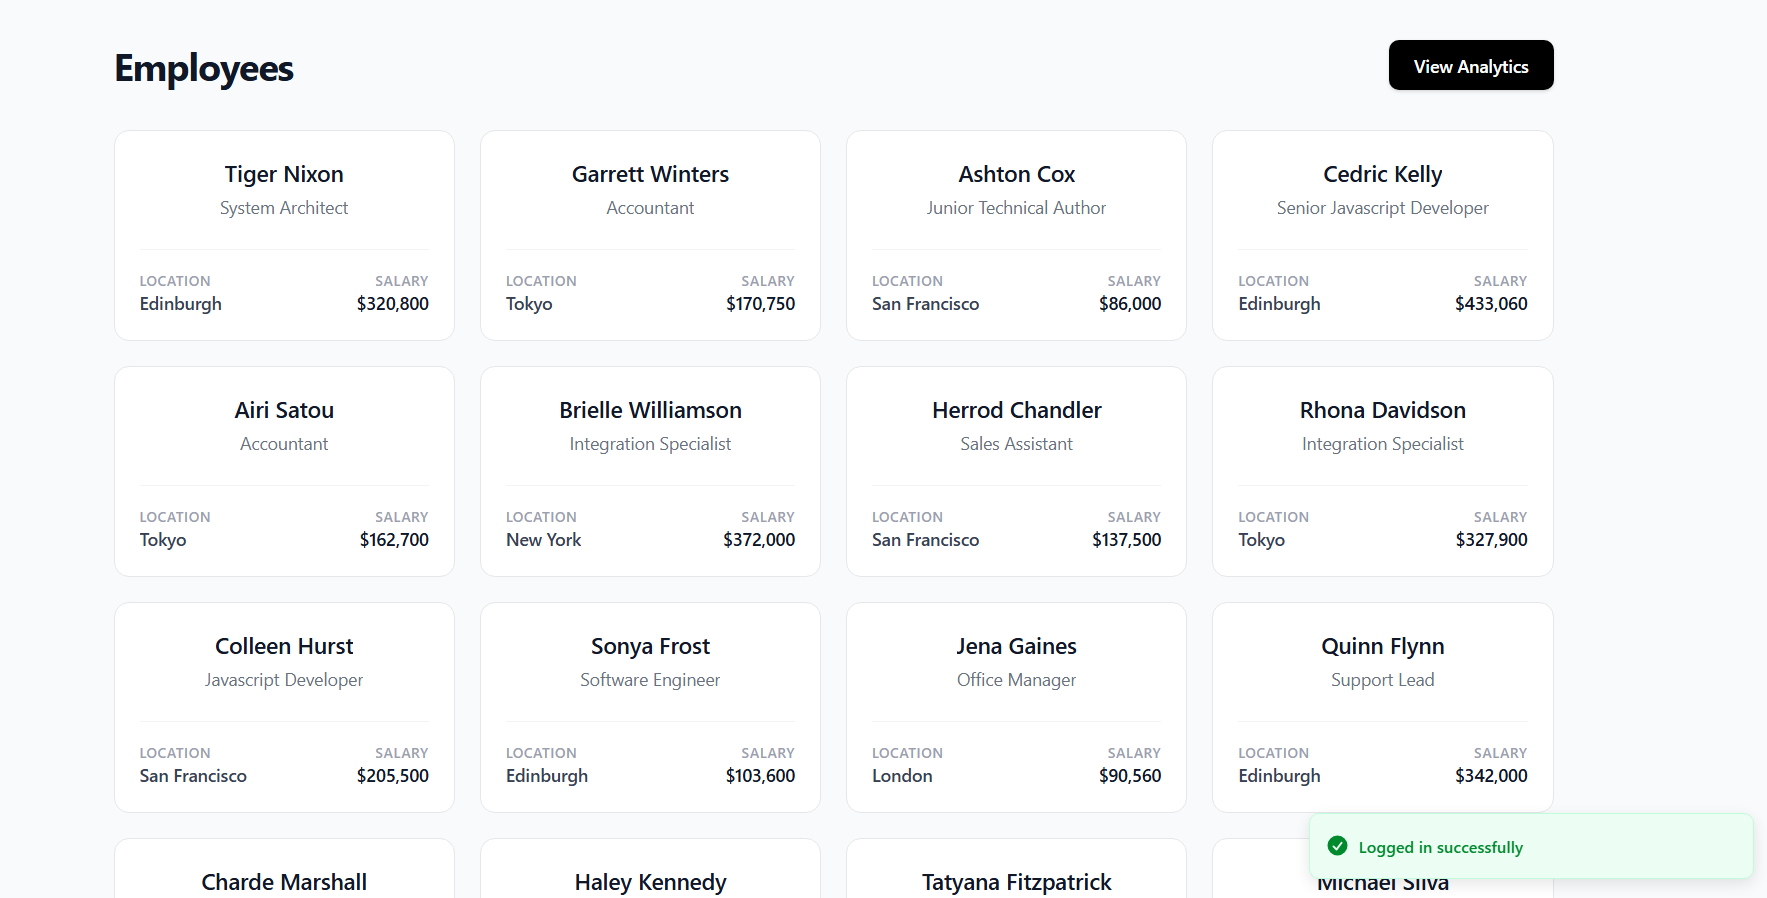
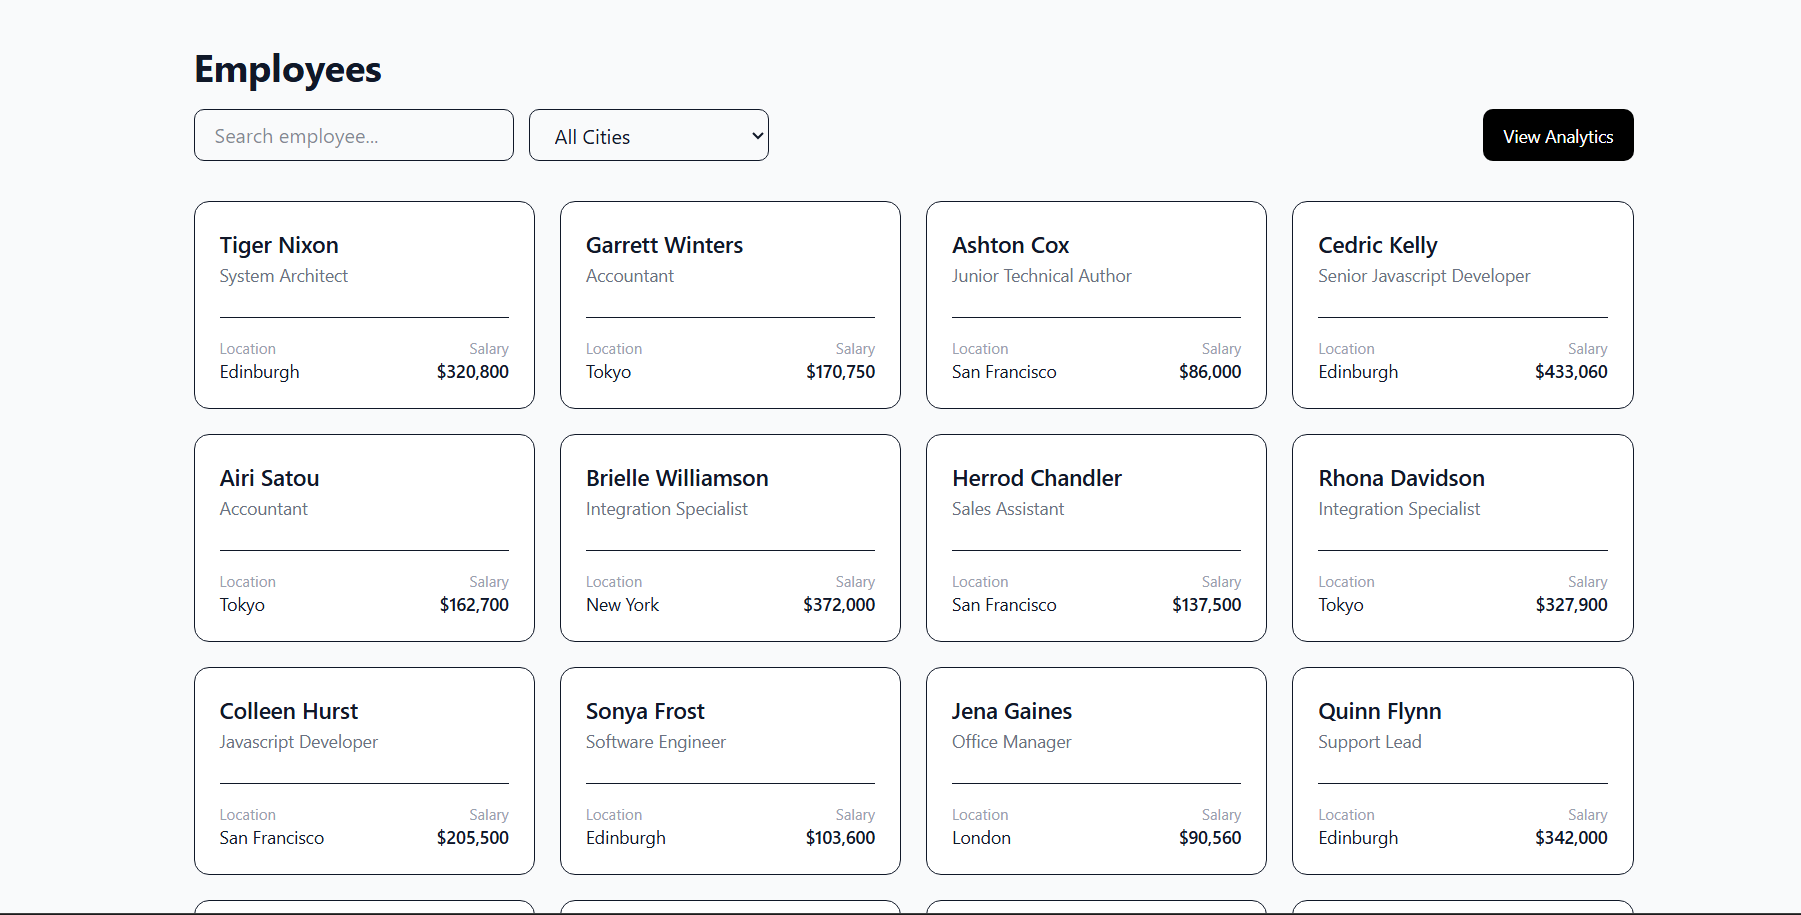
added piechart and search functionality in list

diff --git a/src/pages/List.jsx b/src/pages/List.jsx
@@ -1,10 +1,14 @@
-import { useEffect, useState } from "react";
+import { useEffect, useMemo, useState } from "react";
 import { fetchEmployees } from "../services/api";
 import { useNavigate } from "react-router-dom";
+import Skeleton from "../components/Skeleton";
 
 export default function List() {
   const [data, setData] = useState([]);
   const [loading, setLoading] = useState(true);
+  const [search, setSearch] = useState("");
+  const [city, setCity] = useState("all");
+
   const navigate = useNavigate();
 
   useEffect(() => {
@@ -12,68 +16,123 @@ export default function List() {
       .then((res) => {
         setData(res.TABLE_DATA.data);
       })
-      .catch((err) => {
-        console.error("Failed to fetch employees", err);
-      })
-      .finally(() => {
-        setLoading(false);
-      });
+      .finally(() => setLoading(false));
   }, []);
 
+ 
+  const cities = useMemo(() => {
+    const all = data.map((e) => e[2]);
+    return ["all", ...new Set(all)];
+  }, [data]);
+
+
+  const filtered = useMemo(() => {
+    return data.filter((emp) => {
+      const matchSearch = emp[0]
+        .toLowerCase()
+        .includes(search.toLowerCase());
+
+      const matchCity =
+        city === "all" || emp[2] === city;
+
+      return matchSearch && matchCity;
+    });
+  }, [data, search, city]);
+
   return (
-    <div className="min-h-screen  py-10 px-4 sm:px-6 lg:px-8">
+    <div className="min-h-screen py-10 px-4 sm:px-6 lg:px-8">
       <div className="max-w-6xl mx-auto">
-        
-      
-        <div className="flex  sm:flex-row justify-between items-start sm:items-center mb-8 gap-4">
-    
-            <h1 className="text-2xl md:text-3xl font-bold text-gray-900 tracking-tight">Employees</h1>
-            
-         
-          
-          <button
-            onClick={() => navigate("/chart")}
-            className="bg-black text-white md:px-5 md:py-2.5 px-4 py-2 rounded-lg text-sm font-medium hover:bg-gray-800 cursor-pointer active:scale-[0.98] transition-all shadow-sm"
-          >
-            View Analytics
-          </button>
+
+       
+        <div className="flex flex-col gap-4 mb-8">
+          <div className="flex justify-between items-center">
+            <h1 className="text-2xl md:text-3xl font-bold">
+              Employees
+            </h1>
+
+           
+          </div>
+
+<div className="flex justify-between">
+
+          <div className="flex flex-col sm:flex-row gap-3">
+            <input
+              placeholder="Search employee..."
+              value={search}
+              onChange={(e) => setSearch(e.target.value)}
+              className="border px-4 py-2 rounded-lg w-full sm:w-64"
+            />
+
+            <select
+              value={city}
+              onChange={(e) => setCity(e.target.value)}
+              className="border px-4 py-2 rounded-lg w-full sm:w-48"
+            >
+              {cities.map((c) => (
+                <option key={c} value={c}>
+                  {c === "all" ? "All Cities" : c}
+                </option>
+              ))}
+            </select>
+          </div>
+
+ <button
+              onClick={() => navigate("/chart")}
+              className="bg-black text-white px-4 py-2 rounded-lg cursor-pointer text-sm"
+            >
+              View Analytics
+            </button>
+          </div>
         </div>
 
-      
+       
         {loading ? (
-          <div className="flex justify-center items-center h-48 text-gray-400 font-medium animate-pulse">
-            Loading employees...
-          </div>
+          <Skeleton/>
         ) : (
           <div className="grid grid-cols-1 sm:grid-cols-2 lg:grid-cols-3 xl:grid-cols-4 gap-5">
-            {data.map((emp, i) => (
+            {filtered.map((emp, i) => (
               <div
                 key={i}
-                onClick={() => navigate(`/details/${i}`, { state: emp })}
-                className="bg-white border border-gray-200 p-5 rounded-xl cursor-pointer hover:border-gray-300 hover:shadow-md hover:-translate-y-1 transition-all duration-200 flex flex-col h-full"
+                onClick={() =>
+                  navigate(`/details/${i}`, { state: emp })
+                }
+                className="bg-white border p-5 rounded-xl cursor-pointer hover:shadow-md transition"
               >
-                
-                <div className="flex items-center flex-col">
-                  <h2 className="text-lg font-semibold text-gray-900 line-clamp-1">{emp[0]}</h2>
-                  <p className="text-sm text-gray-500 mt-0.5 line-clamp-1">{emp[1]}</p>
-                </div>
-                
-               
-                <div className="mt-6 pt-4 border-t border-gray-100 flex justify-between items-end">
+                <h2 className="text-lg font-semibold">
+                  {emp[0]}
+                </h2>
+                <p className="text-sm text-gray-500">
+                  {emp[1]}
+                </p>
+
+                <div className="mt-6 pt-4 border-t flex justify-between">
                   <div>
-                    <p className="text-[11px] text-gray-400 uppercase tracking-wider font-semibold">Location</p>
-                    <p className="text-sm text-gray-700 font-medium truncate max-w-[100px]">{emp[2]}</p>
+                    <p className="text-xs text-gray-400">
+                      Location
+                    </p>
+                    <p className="text-sm">{emp[2]}</p>
                   </div>
+
                   <div className="text-right">
-                    <p className="text-[11px] text-gray-400 uppercase tracking-wider font-semibold">Salary</p>
-                    <p className="text-sm font-semibold text-gray-900">{emp[5]}</p>
+                    <p className="text-xs text-gray-400">
+                      Salary
+                    </p>
+                    <p className="text-sm font-semibold">
+                      {emp[5]}
+                    </p>
                   </div>
                 </div>
               </div>
             ))}
           </div>
         )}
-        
+
+       
+        {!loading && filtered.length === 0 && (
+          <p className="text-center text-gray-500 mt-10">
+            No employees found
+          </p>
+        )}
       </div>
     </div>
   );

diff --git a/src/pages/Chart.jsx b/src/pages/Chart.jsx
@@ -8,29 +8,49 @@ import {
   Tooltip,
   CartesianGrid,
   ResponsiveContainer,
+  PieChart,
+  Pie,
+  Cell,
+  Legend,
 } from "recharts";
 import { useNavigate } from "react-router-dom";
 import { toast } from "sonner";
 
+const COLORS = ['#111827', '#374151', '#4B5563', '#6B7280', '#9CA3AF', '#D1D5DB'];
+
 export default function ChartPage() {
   const [data, setData] = useState([]);
   const [loading, setLoading] = useState(true);
+  const [cityData, setCityData] = useState([]);
   const navigate = useNavigate();
 
   useEffect(() => {
     fetchEmployees()
       .then((res) => {
-        const raw = res.TABLE_DATA.data.slice(0, 10);
+  const rows = res.TABLE_DATA.data;
 
-        const formatted = raw.map((emp) => ({
-          name: emp[0].split(" ")[0],
-          salary: parseInt(emp[5].replace(/[$,]/g, ""), 10),
-        }));
+ 
+  const raw = rows.slice(0, 10);
+  const formatted = raw.map((emp) => ({
+    name: emp[0].split(" ")[0],
+    salary: parseInt(emp[5].replace(/[$,]/g, ""), 10),
+  }));
+  setData(formatted);
 
-        setData(formatted);
-        // console.log(formatted);
-        
-      })
+  
+  const cityCounts = {};
+  rows.forEach((emp) => {
+    const c = emp[2];
+    cityCounts[c] = (cityCounts[c] || 0) + 1;
+  });
+
+  const cityFormatted = Object.keys(cityCounts).map((c) => ({
+    city: c,
+    count: cityCounts[c],
+  }));
+
+  setCityData(cityFormatted);
+})
       .catch((err) => toast.error("Failed to fetch chart data"))
       .finally(() => setLoading(false));
   }, []);
@@ -60,6 +80,7 @@ export default function ChartPage() {
               Loading chart data...
             </div>
           ) : (
+            <>
             <div className="h-[400px] w-full">
               <ResponsiveContainer width="100%" height="100%">
                 <BarChart data={data} margin={{ top: 10, right: 10, left: 0, bottom: 0 }}>
@@ -101,6 +122,45 @@ export default function ChartPage() {
                 </BarChart>
               </ResponsiveContainer>
             </div>
+
+         <div className="mt-12">
+              <h2 className="text-lg font-semibold mb-6 text-gray-900">Employees by City</h2>
+
+              <div className="h-[350px]">
+                <ResponsiveContainer width="100%" height="100%">
+                  <PieChart>
+                    <Tooltip 
+                      contentStyle={{ 
+                        borderRadius: '12px', 
+                        border: 'none', 
+                        boxShadow: '0 10px 15px -3px rgb(0 0 0 / 0.1)',
+                        fontWeight: 500,
+                        color: '#111827'
+                      }}
+                      formatter={(value) => [value, 'Employees']}
+                    />
+                    <Pie
+                      data={cityData}
+                      dataKey="count"
+                      nameKey="city"
+                      innerRadius={80}
+                      outerRadius={120}
+                      paddingAngle={2} 
+                      stroke="none" 
+                    >
+                      {cityData.map((entry, index) => (
+                        <Cell key={index} fill={COLORS[index % COLORS.length]} />
+                      ))}
+                    </Pie>
+                    <Legend 
+                      iconType="circle" 
+                      wrapperStyle={{ fontSize: '14px', color: '#4B5563' }}
+                    />
+                  </PieChart>
+                </ResponsiveContainer>
+              </div>
+            </div>
+</>
           )}
         </div>
         

diff --git a/src/components/Skeleton.jsx b/src/components/Skeleton.jsx
@@ -1,0 +1,18 @@
+import React from 'react'
+
+export default function Skeleton() {
+  return (
+    <div className="grid grid-cols-1 sm:grid-cols-2 lg:grid-cols-3 xl:grid-cols-4 gap-5">
+            {Array.from({ length: 16 }).map((_, i) => (
+              <div
+                key={i}
+                className="bg-white border p-5 rounded-xl animate-pulse"
+              >
+                <div className="h-5 bg-gray-200 rounded w-2/3 mb-3"></div>
+                <div className="h-4 bg-gray-200 rounded w-1/2 mb-6"></div>
+                <div className="h-4 bg-gray-200 rounded w-full"></div>
+              </div>
+            ))}
+          </div>
+  )
+}

diff --git a/README.md b/README.md
@@ -29,4 +29,4 @@ npm run dev
 ![Chart](public/screenshots/chart.png)
 
 ## Screen Recording
-[https://drive.google.com/your-video-link](https://drive.google.com/file/d/10Y87p8GQQfxaVFnpJq8mnsSDmHyQuyL8/view?usp=drive_link)
+[https://drive.google.com/your-video-link](https://drive.google.com/file/d/1ljTv2ry0nm9wNQAV5vzo2wVF8_WTa7f5/view?usp=sharing)
